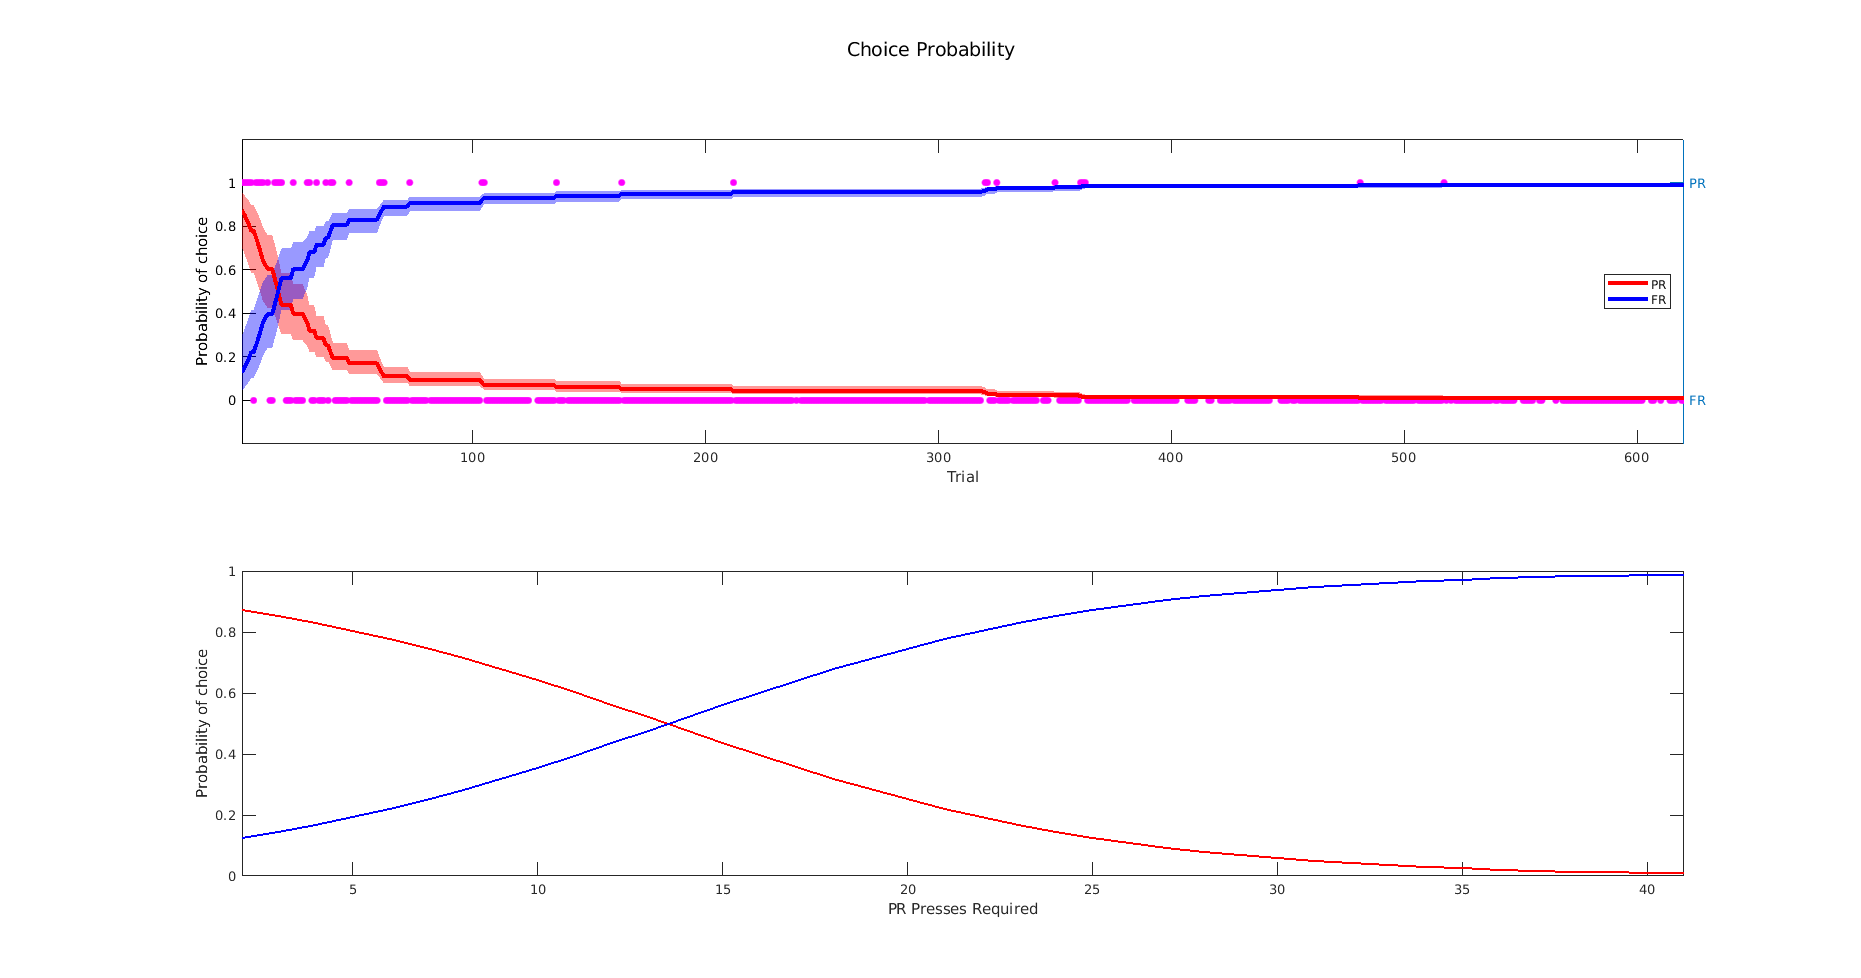
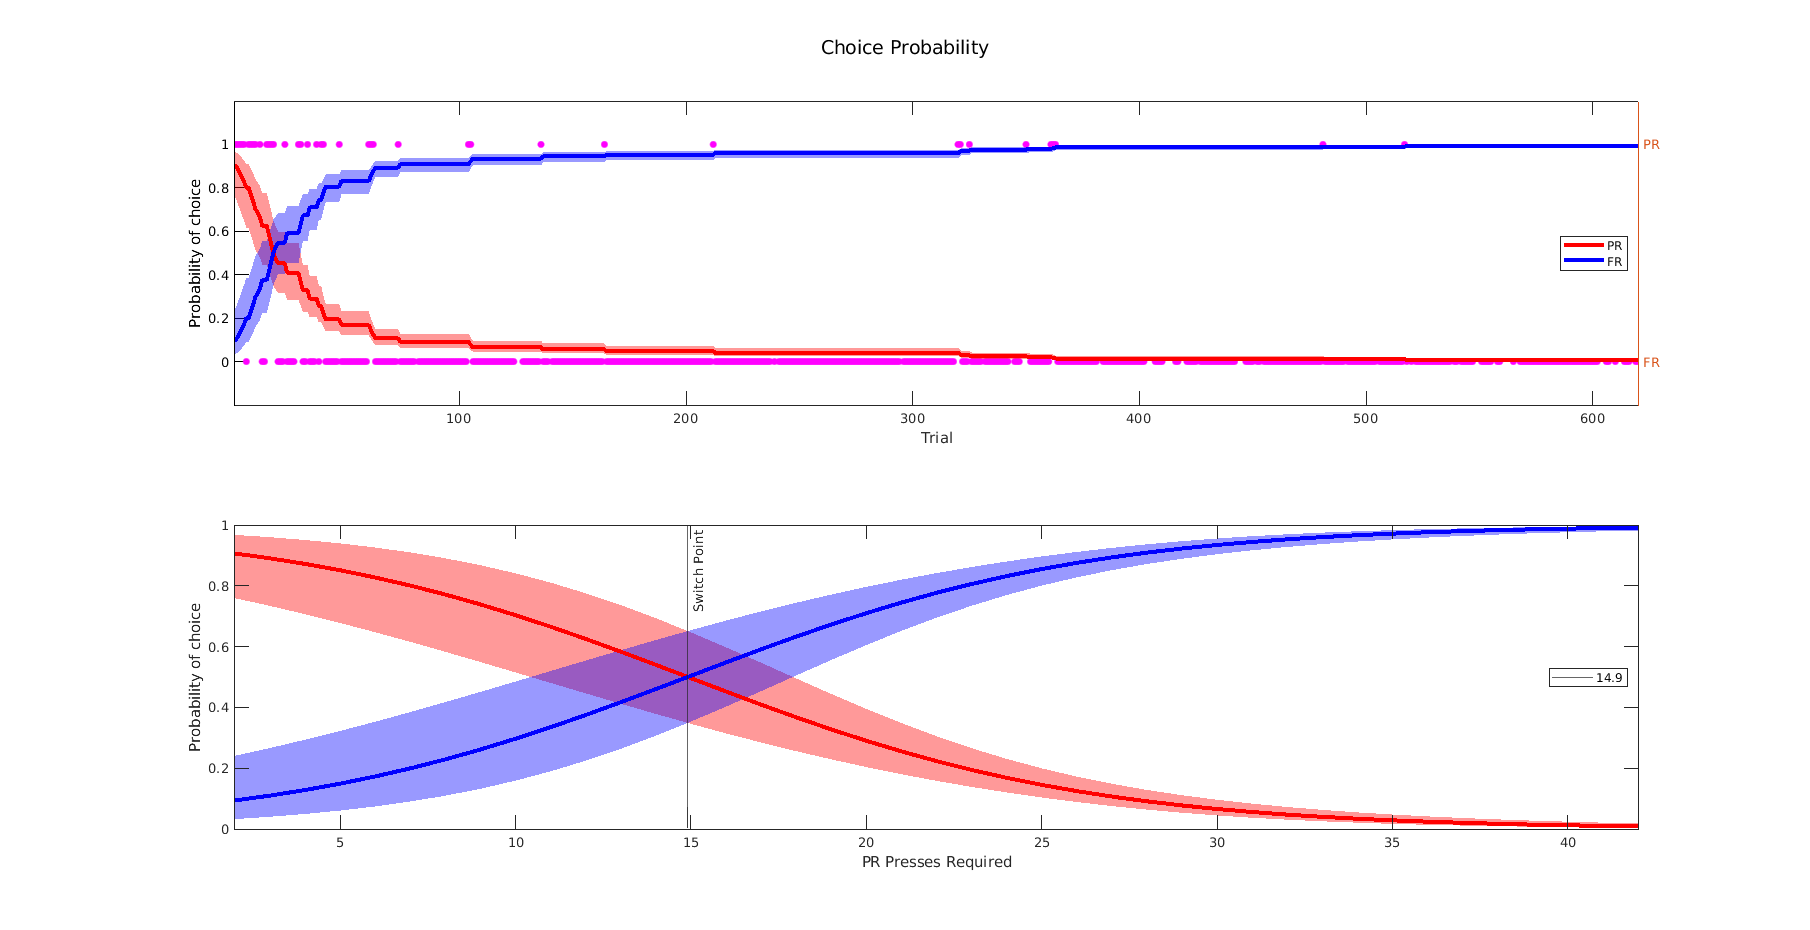
Add extraction of session settings and improved plotting of probability

diff --git a/get_choice_probability.m b/get_choice_probability.m
@@ -1,13 +1,17 @@
-function [out, columns, B, dev, stats] = get_choice_probability(SessionData)
+function [out, columns, switch_point, B, dev, stats] = get_choice_probability(SessionData)
     [data, columns] = parse_choice_data(SessionData);
+    pr_col = find(strcmp(columns, 'PR_requirement'));
+    choice_col = find(strcmp(columns, 'choice'));
+    trial_col = find(strcmp(columns, 'trial'));
     to_plot = true;
     % remove all aborted trials
     idx = data(:,5) == 1;
     data = data(idx,:);
 
-    X = data(:,6); % using number of PR presses required as the predictor variable
+    X = data(:,pr_col); % using number of PR presses required as the predictor variable
     % X = data(:, [1,6]); % could use both trial and number of PR presses
-    Y = data(:,2); % choice is the dependent varaible (1 for PR, 0 for FR)
+    Y = data(:,choice_col); % choice is the dependent varaible (1 for PR, 0 for FR)
+    trials = data(:, trial_col);
 
     % Fit binomial glm (logistic regression)
     [B, dev, stats] = glmfit(X, Y, 'binomial');
@@ -15,21 +19,22 @@ function [out, columns, B, dev, stats] = get_choice_probability(SessionData)
     [yfit, dylo, dyhi] = glmval(B, X, 'logit', stats);
     out = [data yfit yfit-dylo yfit+dyhi];
 
+    switch_point = -B(1)/B(2);
     if to_plot
-        figure();
+        figure('Position', [59, 2, 1800, 900]);
         subplot(2,1,1)
-        xvec = [data(:,1)', fliplr(data(:,1)')];
+        xvec = [trials', fliplr(trials')];
         yvec = [out(:,end-1)', fliplr(out(:,end)')];
-        plot(data(:,1), data(:,2), 'm.', 'markersize', 15);
+        plot(trials, Y, 'm.', 'markersize', 15);
         hold on
         fill(xvec, yvec, 'r', 'facealpha', 0.4, 'edgecolor', 'none');
         fill(xvec, 1-yvec, 'b', 'facealpha', 0.4, 'edgecolor', 'none');
-        l_pr = plot(data(:,1), yfit, 'r-', 'linewidth', 3);
-        l_fr = plot(data(:,1), 1-yfit, 'b-', 'linewidth',3);
+        l_pr = plot(trials, yfit, 'r-', 'linewidth', 3);
+        l_fr = plot(trials, 1-yfit, 'b-', 'linewidth',3);
         legend([l_pr, l_fr], {'PR', 'FR'}, 'location', 'east')
         xlabel('Trial')
         ylabel('Probability of choice')
-        xlim([min(data(:,1)), max(data(:,1))])
+        xlim([min(trials), max(trials)])
         ylim([-0.2, 1.2])
         yticks(0:.2:1)
         yyaxis right
@@ -38,12 +43,17 @@ function [out, columns, B, dev, stats] = get_choice_probability(SessionData)
         yticklabels({'FR', 'PR'})
 
         subplot(2,1,2)
-        plot(data(:,6), yfit, 'r-', 'linewidth', 2)
+        xvec = [X', fliplr(X')];
+        fill(xvec, yvec, 'r', 'facealpha', 0.4, 'edgecolor', 'none');
         hold on
-        plot(data(:,6), 1-yfit, 'b-', 'linewidth',2)
+        fill(xvec, 1-yvec, 'b', 'facealpha', 0.4, 'edgecolor', 'none');
+        plot(X, yfit, 'r-', 'linewidth', 3)
+        plot(X, 1-yfit, 'b-', 'linewidth',3)
+        l1 = xline(switch_point, '-', 'Switch Point', 'linewidth',1);
+        legend(l1, {sprintf('%0.3g', switch_point)}, 'location','east');
         xlabel('PR Presses Required')
         ylabel('Probability of choice')
-        xlim([min(data(:,6)), max(data(:,6))])
+        xlim([min(X), max(X)])
         suptitle('Choice Probability')
     end
 

diff --git a/parse_choice_data.m b/parse_choice_data.m
@@ -1,13 +1,17 @@
 function [out, columns] = parse_choice_data(SessionData)
     n_trials = SessionData.nTrials;
-    columns = {'trial','choice','presses','aborted', 'rewarded', 'PR_requirement'};
+    columns = {'trial','choice','presses','aborted', 'rewarded', 'PR_requirement', 'FR_requirement', 'PR_reward_size','FR_reward_size'};
     out = zeros([n_trials, length(columns)]);
-    PR_presses = 1;
     for i = 1:n_trials
         out(i, 1) = i;
         trial = SessionData.RawEvents.Trial{i};
+        settings = SessionData.TrialSettings(i).GUI;
         states = get_valid_states(trial.States);
-        
+        out(i,6) = settings.NumPressRequired_L;
+        out(i,7) = settings.NumPressRequired_S;
+        out(i,8) = settings.Reward_L;
+        out(i,9) = settings.Reward_S;
+
         % Get side chosen
         if any(strcmp(states, 'Side_L'))
             out(i,2) = 1;
@@ -35,9 +39,5 @@ function [out, columns] = parse_choice_data(SessionData)
             end
         end
         out(i, 3) = n;
-        if out(i, 2) == 1 && out(i,5) == 1
-            PR_presses = n;
-        end
-        out(i, 6) = PR_presses;
     end
 end

diff --git a/fit_multiple_recordings.m b/fit_multiple_recordings.m
@@ -1,0 +1,2 @@
+function fit_multiple_recordings()
+
